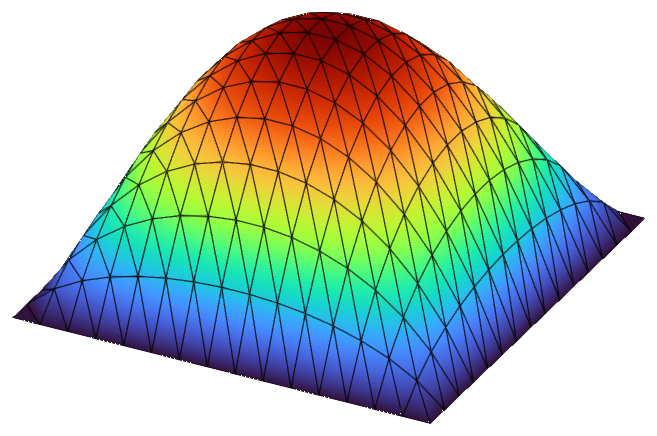
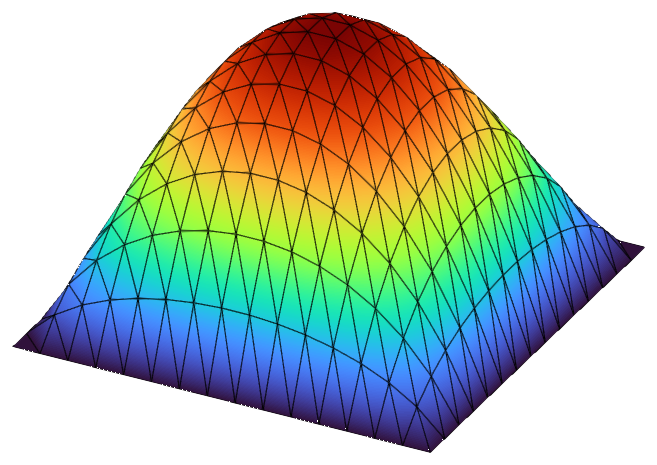
Animate the README Poisson solution at 30 fps

diff --git a/examples/PDEs/visualize_paraview.py b/examples/PDEs/visualize_paraview.py
@@ -101,11 +101,11 @@ def color(source, target, array, limits, signed=False, title=None, association=N
     return display
 
 
-def save(path, target, size=(1280, 640)):
+def save(path, target, size=(1280, 640), crop=True):
     if target.GetXMLName() == 'RenderView':
         target.ViewSize = list(size)
     SaveScreenshot(str(path), target, ImageResolution=list(size), TransparentBackground=1)
-    if path.suffix.lower() == '.png' and target.GetXMLName() == 'RenderView':
+    if crop and path.suffix.lower() == '.png' and target.GetXMLName() == 'RenderView':
         # Trim unused transparent margins from still figures.
         with Image.open(path) as image:
             bounds = image.getchannel('A').getbbox()
@@ -267,11 +267,11 @@ def scalar(root, name, output):
     Delete(target)
 
 
-def poisson_readme(root, output):
+def poisson_readme(root, output, frames=None, fps=30):
     """Render the exported P1 nodal field with interpolated point colors."""
     source = reader(root, 'Poisson')
     target = view()
-    surface = WarpByScalar(Input=source, Scalars=['POINTS', 'u'], ScaleFactor=8)
+    surface = WarpByScalar(Input=source, Scalars=['POINTS', 'u'], ScaleFactor=9)
     surface.UpdatePipeline()
     display = color(surface, target, 'u', source.PointData['u'].GetRange(),
                     title=r'$u$', association='POINTS')
@@ -285,6 +285,45 @@ def poisson_readme(root, output):
     target.CameraViewUp = [0, 0, 1]
     target.CameraParallelScale = .85
     save(output / 'Poisson.png', target, (1000, 800))
+    if frames is not None:
+        frames.mkdir(parents=True, exist_ok=True)
+        count = 6 * fps
+        center = list(target.CameraFocalPoint)
+        offset = [target.CameraPosition[i] - center[i] for i in range(3)]
+        bounds = None
+        for index in range(count):
+            angle = 2 * math.pi * index / count
+            target.CameraPosition = [
+                center[0] + offset[0] * math.cos(angle) - offset[1] * math.sin(angle),
+                center[1] + offset[0] * math.sin(angle) + offset[1] * math.cos(angle),
+                center[2] + offset[2]]
+            path = frames / f'{index:04d}.png'
+            save(path, target, (720, 576), crop=False)
+            with Image.open(path) as image:
+                box = image.getchannel('A').getbbox()
+            bounds = box if bounds is None else (
+                min(bounds[0], box[0]), min(bounds[1], box[1]),
+                max(bounds[2], box[2]), max(bounds[3], box[3]))
+            if index % fps == 0:
+                print('README rotation:', index, '/', count, flush=True)
+        # One crop for the whole orbit prevents the image from shifting or resizing.
+        bounds = (max(0, bounds[0] - 12), max(0, bounds[1] - 12),
+                  min(720, bounds[2] + 12), min(576, bounds[3] + 12))
+        for index in range(count):
+            path = frames / f'{index:04d}.png'
+            with Image.open(path) as image:
+                image.crop(bounds).save(path)
+        pattern = str(frames / '%04d.png')
+        palette = str(frames / 'palette.png')
+        subprocess.run(['ffmpeg', '-y', '-framerate', str(fps), '-t', str(count / fps), '-i', pattern,
+                        '-vf', 'palettegen=stats_mode=full:reserve_transparent=1',
+                        '-frames:v', '1', '-update', '1', palette], check=True)
+        subprocess.run(['ffmpeg', '-y', '-framerate', str(fps), '-t', str(count / fps), '-i', pattern,
+                        '-i', palette, '-lavfi',
+                        'paletteuse=dither=sierra2_4a:alpha_threshold=128',
+                        '-loop', '0', '-final_delay', str(round(100 / fps)),
+                        str(output / 'Poisson.gif')], check=True)
+
     print('README Poisson: point-data P1 interpolation,',
           source.GetDataInformation().GetNumberOfPoints(), 'vertices,',
           source.GetDataInformation().GetNumberOfCells(), 'cells,',
@@ -318,7 +357,7 @@ if __name__ == '__main__':
     parser.add_argument('--frames', type=Path)
     parser.add_argument('--fps', type=int, choices=[30, 60], default=30)
     cases = ['Poisson', 'Elasticity', 'SurfaceMesh', 'Periodic', 'MixedBoundary']
-    parser.add_argument('--example', choices=['all', 'cavity', 'Helmholtz', 'Stokes', 'NavierStokes', 'READMEPoisson'] + cases,
+    parser.add_argument('--example', choices=['all', 'cavity', 'Helmholtz', 'Stokes', 'NavierStokes', 'READMEPoisson', 'READMEPoissonRotation'] + cases,
                         default='all')
     args = parser.parse_args()
     args.output.mkdir(parents=True, exist_ok=True)
@@ -331,8 +370,11 @@ if __name__ == '__main__':
         flow(args.root, 'Stokes', args.output)
     elif args.example in cases:
         scalar(args.root, args.example, args.output)
-    elif args.example == 'READMEPoisson':
-        poisson_readme(args.root, args.output)
+    elif args.example in ['READMEPoisson', 'READMEPoissonRotation']:
+        if args.example == 'READMEPoissonRotation' and args.frames is None:
+            parser.error('--frames is required for the README rotation')
+        poisson_readme(args.root, args.output,
+                       args.frames if args.example == 'READMEPoissonRotation' else None, args.fps)
     elif args.example == 'Helmholtz':
         helmholtz(args.root, args.output)
     elif args.example == 'NavierStokes':

diff --git a/README.md b/README.md
@@ -23,9 +23,7 @@ Contributions, issue reports and documentation improvements are welcome.
 
 ## Getting started
 
-The [getting started
-  guide](https://cbritopacheco.github.io/rodin/docs/refs/heads/master/guides-getting-started-installation.html) covers installation, a first solve and the
-  main library objects:
+The [getting started guide](https://cbritopacheco.github.io/rodin/docs/refs/heads/master/guides-getting-started-installation.html) covers installation, a first solve and the main library objects:
 
 - **[Installation and setup](https://cbritopacheco.github.io/rodin/docs/refs/heads/master/guides-getting-started-installation.html)** - Platform-specific installation instructions and verification
 - **[First steps](https://cbritopacheco.github.io/rodin/docs/refs/heads/master/guides-getting-started-first-steps.html)** - Project structure and a first Rodin program
@@ -259,7 +257,7 @@ int main(int, char**)
 <table align="center" width="100%">
   <tr>
     <td align="center" width="9999">
-      <img src="doc/README/Poisson.png" alt="Poisson solution on the unit square" width="360" style="max-width:100%;height:auto;">
+      <img src="doc/README/Poisson.gif" alt="Rotating Poisson solution on the unit square" width="360" style="max-width:100%;height:auto;">
     </td>
   </tr>
   <tr>

diff --git a/examples/PDEs/README.md b/examples/PDEs/README.md
@@ -72,9 +72,20 @@ python3 examples/PDEs/visualize_surface_convergence.py \
 
 The compact README figure uses the exported Poisson point values. Its height
 and color follow the P1 field on the original triangles. ParaView interpolates
-the point scalars before applying Turbo; the vertical display scale is 8.
+the point scalars before applying Turbo; the vertical display scale is 9.
 
 ```sh
 pvpython examples/PDEs/visualize_paraview.py /path/to/output doc/README \
   --example READMEPoisson
+```
+
+The README uses a six-second, 30 fps rotating GIF. Its camera makes one
+full orbit in 180 frames, with the endpoint omitted for a continuous loop.
+Every frame retains the same camera scale, Turbo range, mesh and P1 solution.
+A single crop is applied to the full sequence. A global 256-color palette and
+error-diffusion dithering preserve the field gradient on a transparent background.
+
+```sh
+pvpython examples/PDEs/visualize_paraview.py /path/to/output doc/README \
+  --example READMEPoissonRotation --frames /path/to/temporary-frames --fps 30
 ```
